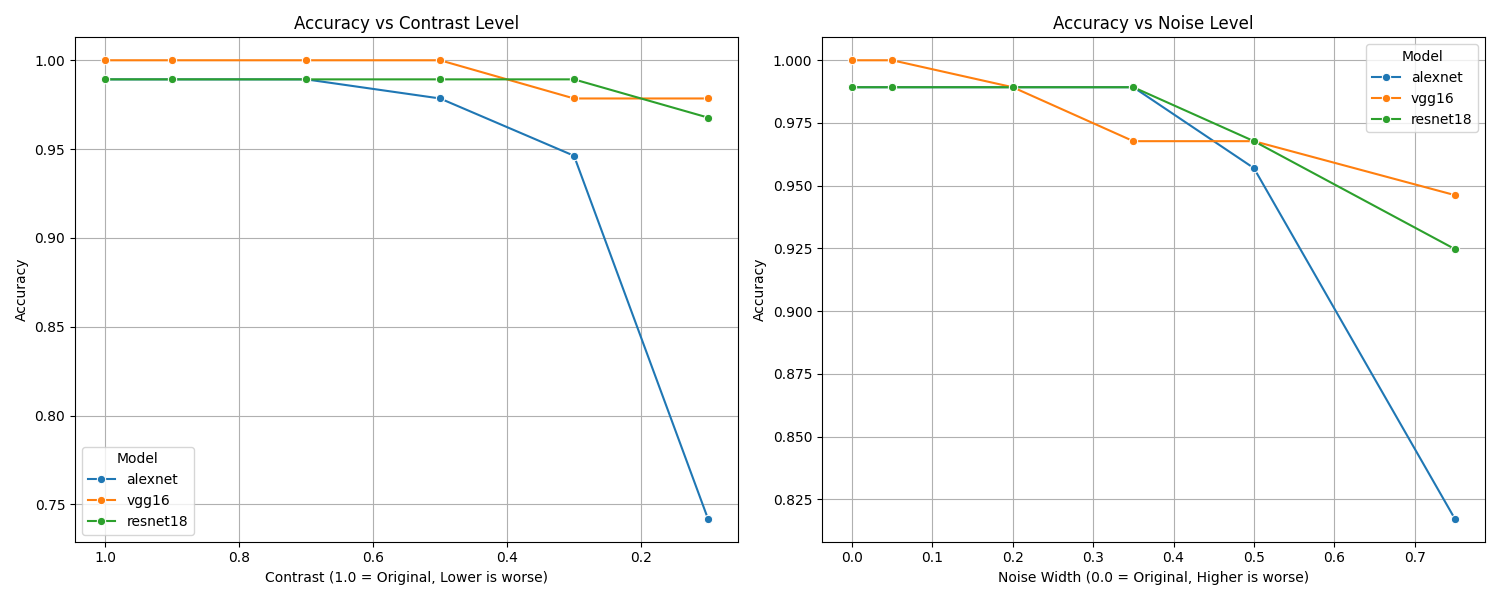
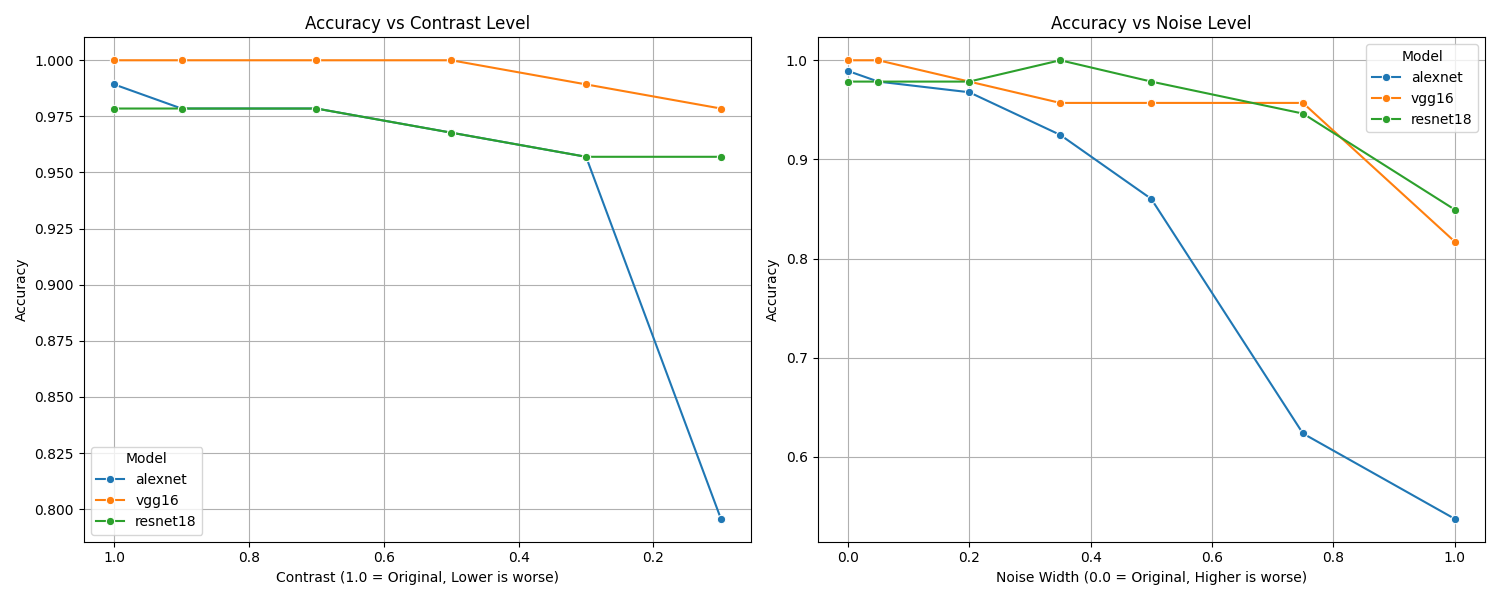
更新实验结果文件，增加噪声变体档位，并添加绘制准确率的脚本

diff --git a/generate_variants.py b/generate_variants.py
@@ -20,9 +20,9 @@ OUTPUT_ROOT = './dataset_variants'
 # 例如：0.9, 0.7, 0.5, 0.3, 0.1
 CONTRAST_LEVELS = [0.9, 0.7, 0.5, 0.3, 0.1]
 
-# 噪声：0.0 是无噪声。我们设置5个档位，逐渐增加噪声。
-# 例如：0.05, 0.20, 0.35, 0.5, 0.75
-NOISE_LEVELS = [0.05, 0.20, 0.35, 0.5, 0.75]
+# 噪声：0.0 是无噪声。我们设置6个档位，逐渐增加噪声。
+# 例如：0.05, 0.20, 0.35, 0.5, 0.75, 1.0
+NOISE_LEVELS = [0.05, 0.20, 0.35, 0.5, 0.75, 1.0]
 
 # Eidolon 参数 (保持不变，如果需要的话)
 EIDOLON_PARAMS = {'reach': 8.0, 'coherence': 1.0, 'grain': 10.0}
@@ -202,22 +202,28 @@ def process_dataset():
                 
                 # 1. Contrast Levels (RGB)
                 for i, level in enumerate(CONTRAST_LEVELS):
-                    # 保持 RGB，不转灰度
-                    img_contrast = adjust_contrast(img, level)
-                    
                     # 文件夹命名: dataset_variants/contrast_level_1/train/class_name/
                     # level_1 对应 CONTRAST_LEVELS[0]
                     save_dir = os.path.join(OUTPUT_ROOT, f'contrast_level_{i+1}', subset, class_name)
                     save_path = os.path.join(save_dir, img_name)
+                    
+                    if os.path.exists(save_path):
+                        continue
+
+                    # 保持 RGB，不转灰度
+                    img_contrast = adjust_contrast(img, level)
                     save_img(img_contrast, save_path)
 
                 # 2. Noise Levels (RGB)
                 for i, width in enumerate(NOISE_LEVELS):
-                    # 保持 RGB，不转灰度，不降对比度，只加噪
-                    img_noise = apply_uniform_noise(img, -width, width, rng)
-                    
                     save_dir = os.path.join(OUTPUT_ROOT, f'noise_level_{i+1}', subset, class_name)
                     save_path = os.path.join(save_dir, img_name)
+                    
+                    if os.path.exists(save_path):
+                        continue
+
+                    # 保持 RGB，不转灰度，不降对比度，只加噪
+                    img_noise = apply_uniform_noise(img, -width, width, rng)
                     save_img(img_noise, save_path)
                 
                 # 3. Eidolon (Optional, keep separate if needed, or remove if not requested)

diff --git a/avr/plot_results.py b/avr/plot_results.py
@@ -2,9 +2,12 @@ import pandas as pd
 import matplotlib.pyplot as plt
 import seaborn as sns
 import re
+import os
 
 # Read the CSV file
-df = pd.read_csv('experiment_results.csv')
+script_dir = os.path.dirname(os.path.abspath(__file__))
+csv_path = os.path.join(script_dir, 'experiment_results.csv')
+df = pd.read_csv(csv_path)
 
 # Calculate Accuracy
 df['Accuracy'] = (df['TP'] + df['TN']) / (df['TP'] + df['TN'] + df['FP'] + df['FN'])
@@ -20,14 +23,15 @@ contrast_map = {
     5: 0.1
 }
 
-# Noise: 0.0 (Original), 0.05, 0.20, 0.35, 0.5, 0.75
+# Noise: 0.0 (Original), 0.05, 0.20, 0.35, 0.5, 0.75, 1.0
 noise_map = {
     0: 0.0,
     1: 0.05,
     2: 0.20,
     3: 0.35,
     4: 0.5,
-    5: 0.75
+    5: 0.75,
+    6: 1.0
 }
 
 # Process the dataframe to separate Contrast and Noise experiments
@@ -80,5 +84,6 @@ axes[1].set_ylabel('Accuracy')
 axes[1].grid(True)
 
 plt.tight_layout()
-plt.savefig('accuracy_plot.png')
-print("Plot saved to accuracy_plot.png")
+save_path = os.path.join(script_dir, 'accuracy_plot.png')
+plt.savefig(save_path)
+print(f"Plot saved to {save_path}")

diff --git a/avr/run.py b/avr/run.py
@@ -153,14 +153,16 @@ if __name__ == '__main__':
     for i in range(1, 6):
         test_datasets_list.append(f'dataset_variants/contrast_level_{i}')
         
-    # 添加噪声变体 (5个档位)
-    for i in range(1, 6):
+    # 添加噪声变体 (6个档位)
+    for i in range(1, 7):
         test_datasets_list.append(f'dataset_variants/noise_level_{i}')
 
     # 定义要跑的三个模型
     models_to_test = ['alexnet', 'vgg16', 'resnet18']
     
-    log_file = "experiment_results.csv"
+    # 使用脚本所在目录来存放结果，避免路径错误
+    script_dir = os.path.dirname(os.path.abspath(__file__))
+    log_file = os.path.join(script_dir, "experiment_results.csv")
     
     # 初始化日志文件
     with open(log_file, "w", encoding='utf-8') as f:
